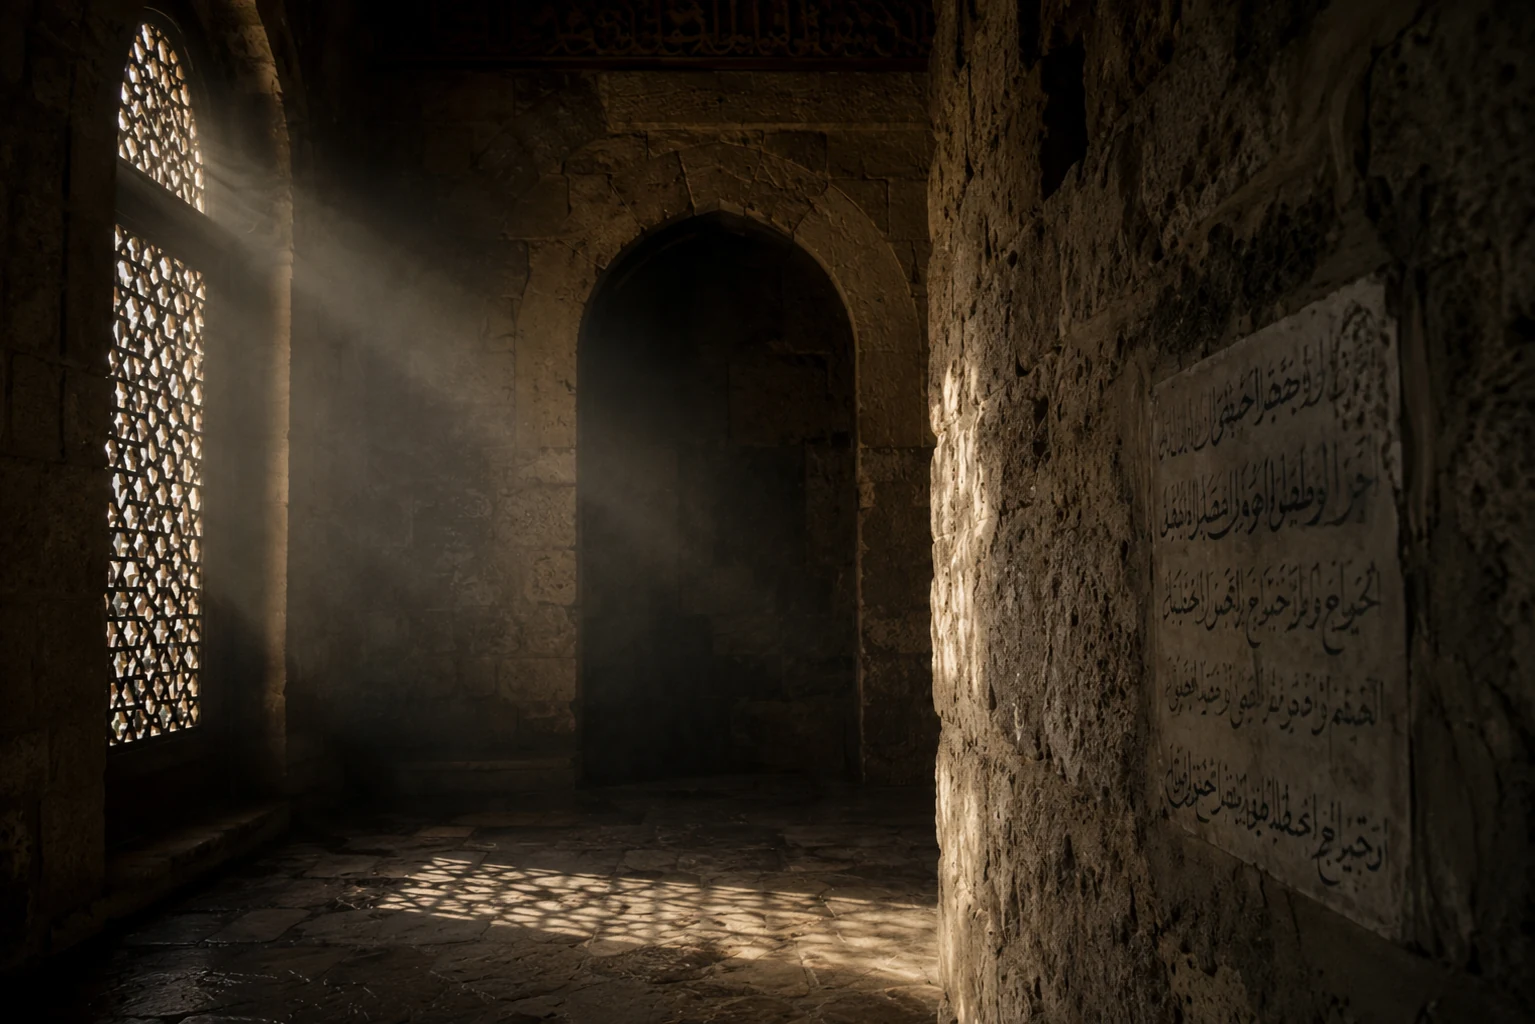
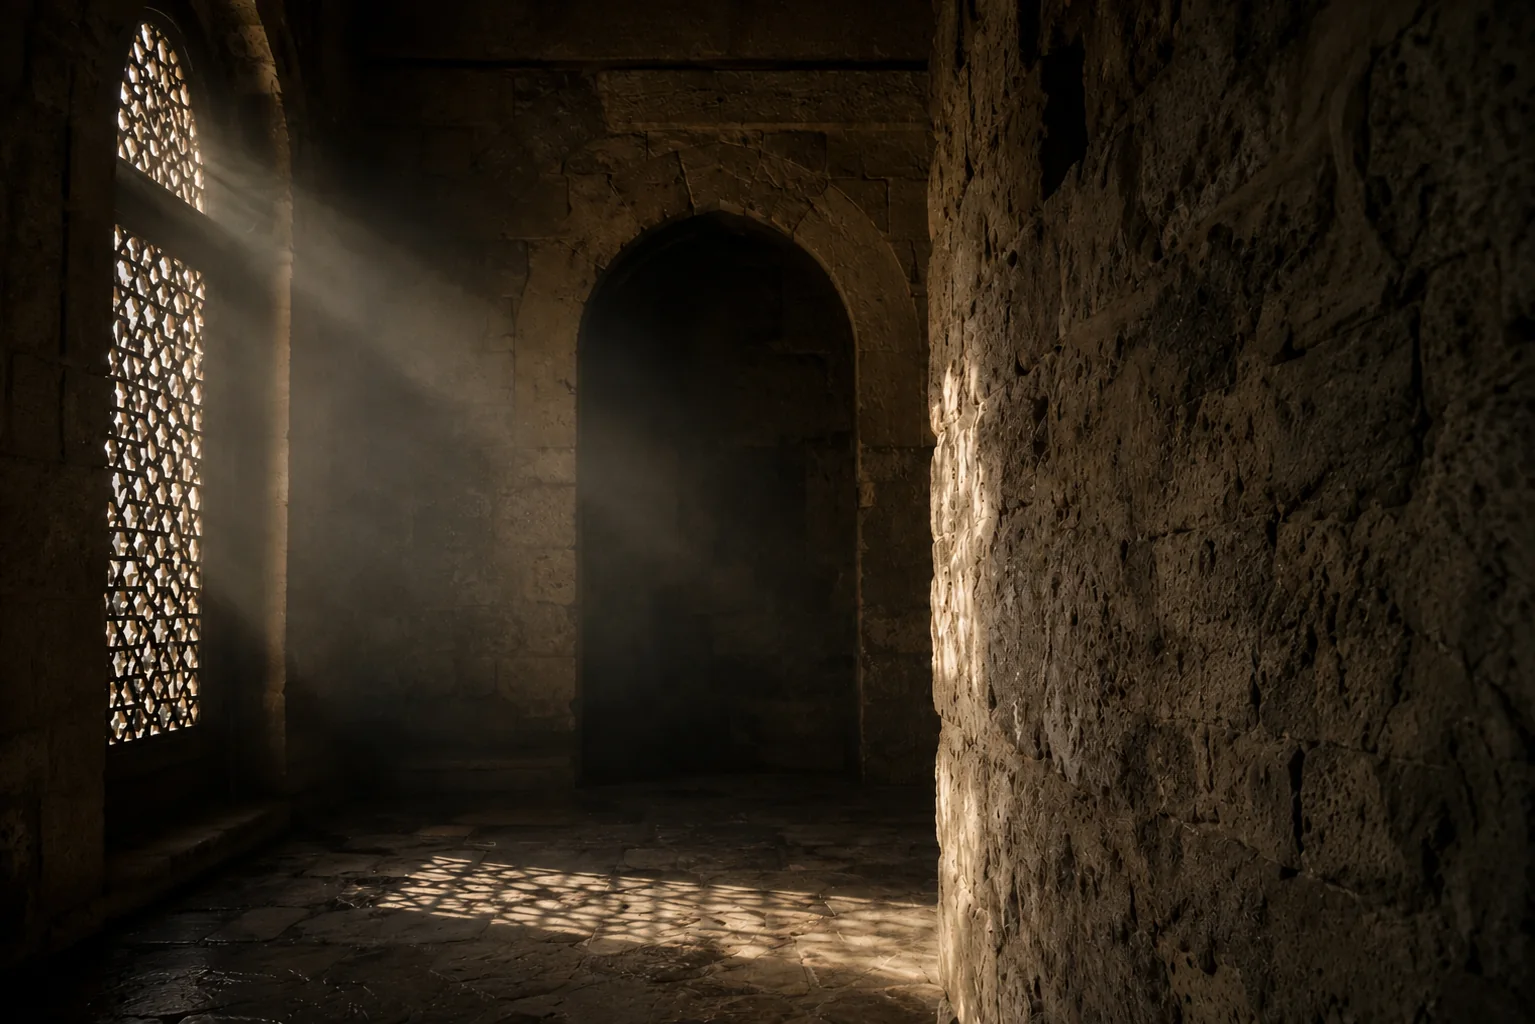
content(fakta): take a cross and generated script out of two Tro och lära cards
The lamplit picture of a woman at the night prayer, the Bönen card and the
prayer answer's top picture, had a small cross on the wall behind her.
Änglarna's stone wall carried a plaque of generated pseudo-Arabic. Both
are removed by an edit that keeps the rest of each picture as the user
chose it. The feature-image skill now says to hold kept pictures to the
same gates.

diff --git a/.claude/skills/feature-image/SKILL.md b/.claude/skills/feature-image/SKILL.md
@@ -77,6 +77,10 @@ What they have rejected, each once (memory files hold the detail):
   edit turned him to face the camera with the sun behind him.
 - **A photograph, not a render.** Film grain, real skin and cloth, imperfect surfaces.
   No plastic skin, HDR, over-smoothing, teal-and-orange grade.
+- **Hold the pictures already on the site to the same gates.** On 2026-11-07 the lamplit
+  night prayer the user had kept since October had a small cross on the wall behind the
+  praying woman, and Änglarna and Förutbestämmelsen carried generated pseudo-Arabic. Zoom
+  into every picture in a set you review, kept ones included; fix by edit.
 - **Clean.** No text, logo or watermark; look at the bottom-right corner at full size for
   the generator's sparkle mark (one of six carried it in October).
 
